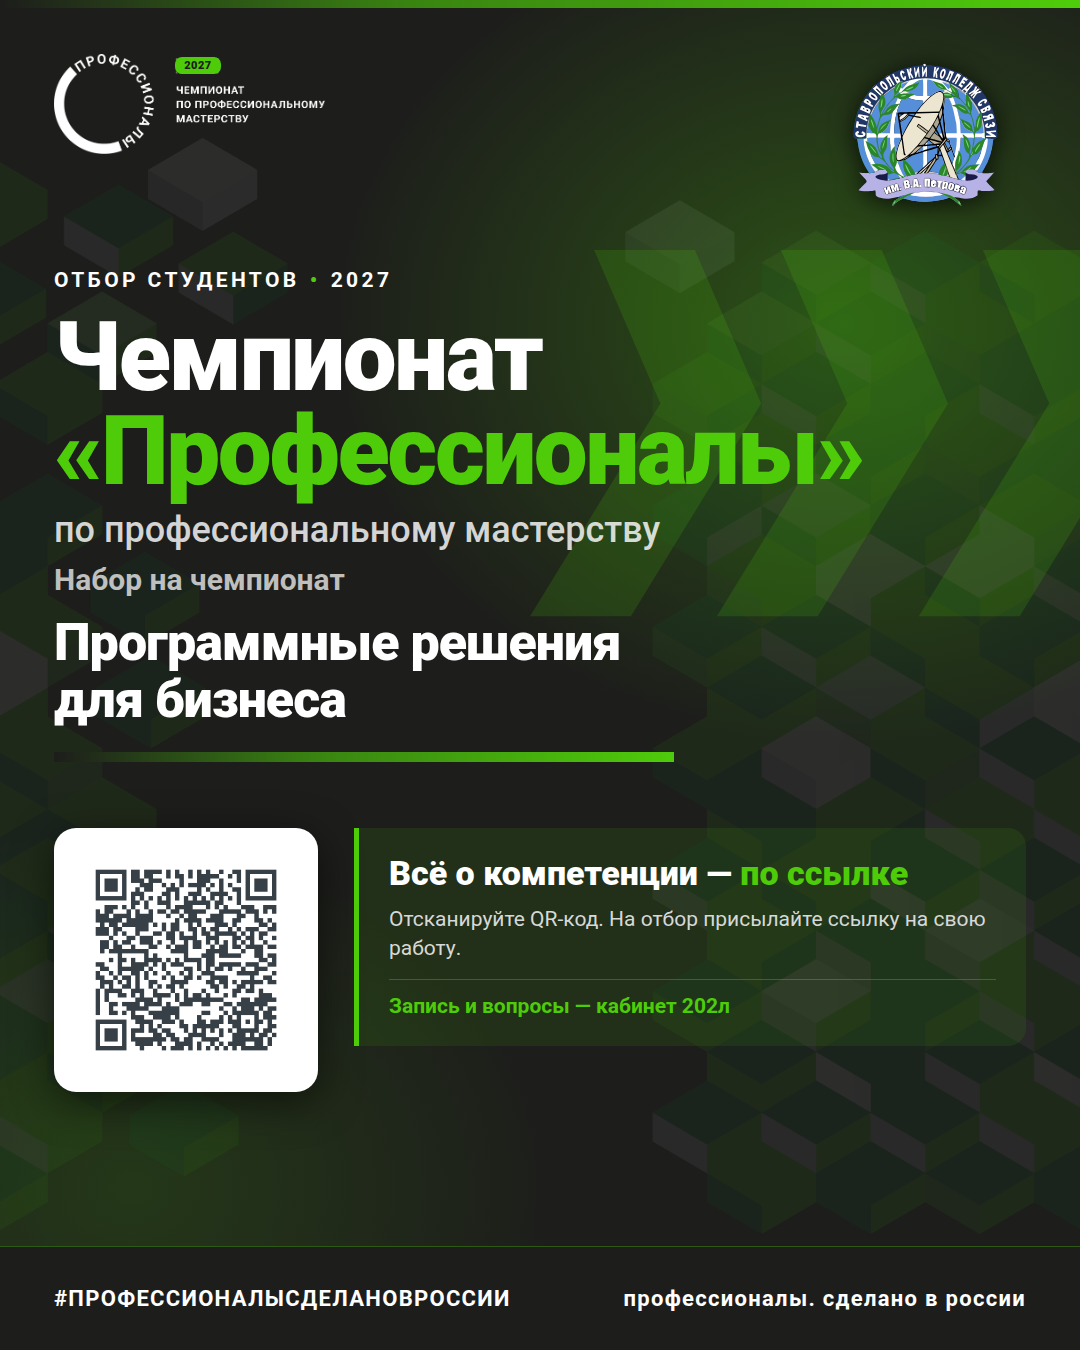
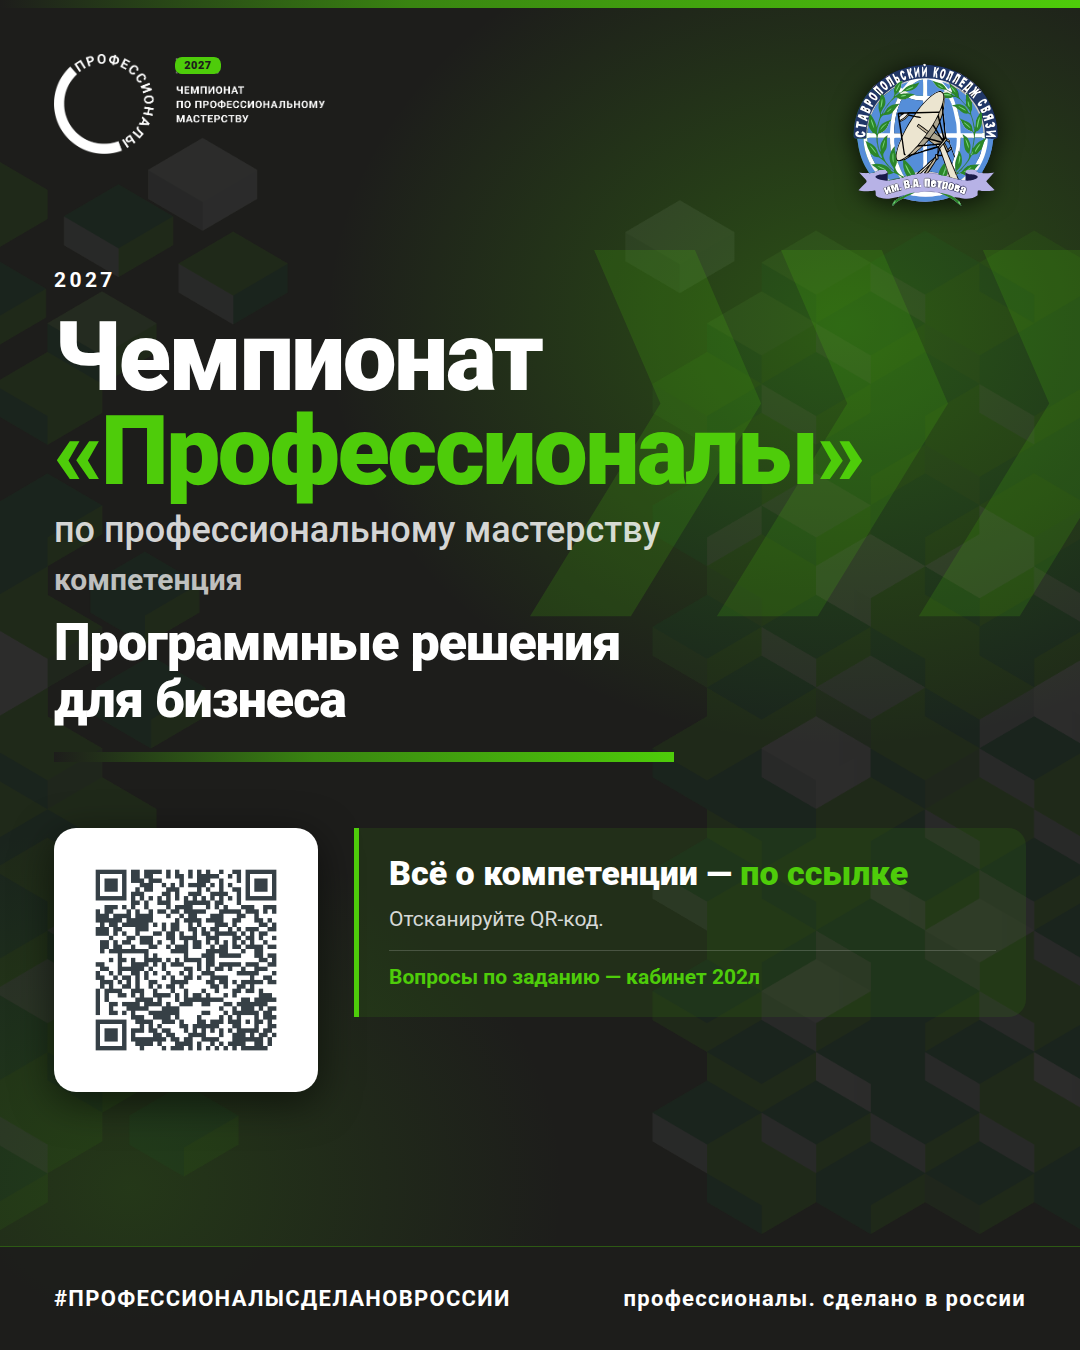
refactor(poster): правки текста по обоим вариантам
- из надзаголовка убрано «Отбор студентов» — остался только год 2027
- «Набор на чемпионат» заменено на слово-подпись «компетенция» перед
  названием компетенции
- убрано «На отбор присылайте ссылку на свою работу.» — осталось
  «Отсканируйте QR-код.»
- «Запись и вопросы — кабинет 202л» → «Вопросы по заданию — кабинет 202л»

Правки внесены в оба варианта, чтобы постеры для одного объявления не
расходились формулировками.

diff --git a/post/poster.html b/post/poster.html
@@ -245,12 +245,12 @@
   </div>
 
   <div class="content">
-    <div class="eyebrow">Отбор студентов<span class="dot">•</span>2027</div>
+    <div class="eyebrow">2027</div>
 
     <h1>Чемпионат<br><span class="name">«Профессионалы»</span></h1>
     <p class="kicker">по профессиональному мастерству</p>
 
-    <p class="sub">Набор на чемпионат</p>
+    <p class="sub">компетенция</p>
 
     <h2>Программные решения<br>для бизнеса</h2>
     <div class="rule"><div class="bar"></div><div class="arrow"></div></div>
@@ -262,8 +262,8 @@
 
   <div class="textblock">
     <h3>Всё о компетенции —<br><em>по ссылке</em></h3>
-    <p>Отсканируйте QR-код. На отбор присылайте ссылку на свою работу.</p>
-    <div class="contact">Запись и вопросы — кабинет 202л</div>
+    <p>Отсканируйте QR-код.</p>
+    <div class="contact">Вопросы по заданию — кабинет 202л</div>
   </div>
 
   <div class="footer">

diff --git a/post/poster-variant-a.html b/post/poster-variant-a.html
@@ -201,12 +201,12 @@
   </div>
 
   <div class="content">
-    <div class="eyebrow">Отбор студентов<span class="dot">•</span>2027</div>
+    <div class="eyebrow">2027</div>
 
     <h1>Чемпионат<br><span class="name">«Профессионалы»</span></h1>
     <p class="kicker">по профессиональному мастерству</p>
 
-    <p class="sub">Набор на чемпионат</p>
+    <p class="sub">компетенция</p>
 
     <h2>Программные решения<br>для бизнеса</h2>
     <div class="rule"><div class="bar"></div></div>
@@ -218,8 +218,8 @@
 
   <div class="textblock">
     <h3>Всё о компетенции — <em>по ссылке</em></h3>
-    <p>Отсканируйте QR-код. На отбор присылайте ссылку на свою работу.</p>
-    <div class="contact">Запись и вопросы — кабинет 202л</div>
+    <p>Отсканируйте QR-код.</p>
+    <div class="contact">Вопросы по заданию — кабинет 202л</div>
   </div>
 
   <div class="footer">
